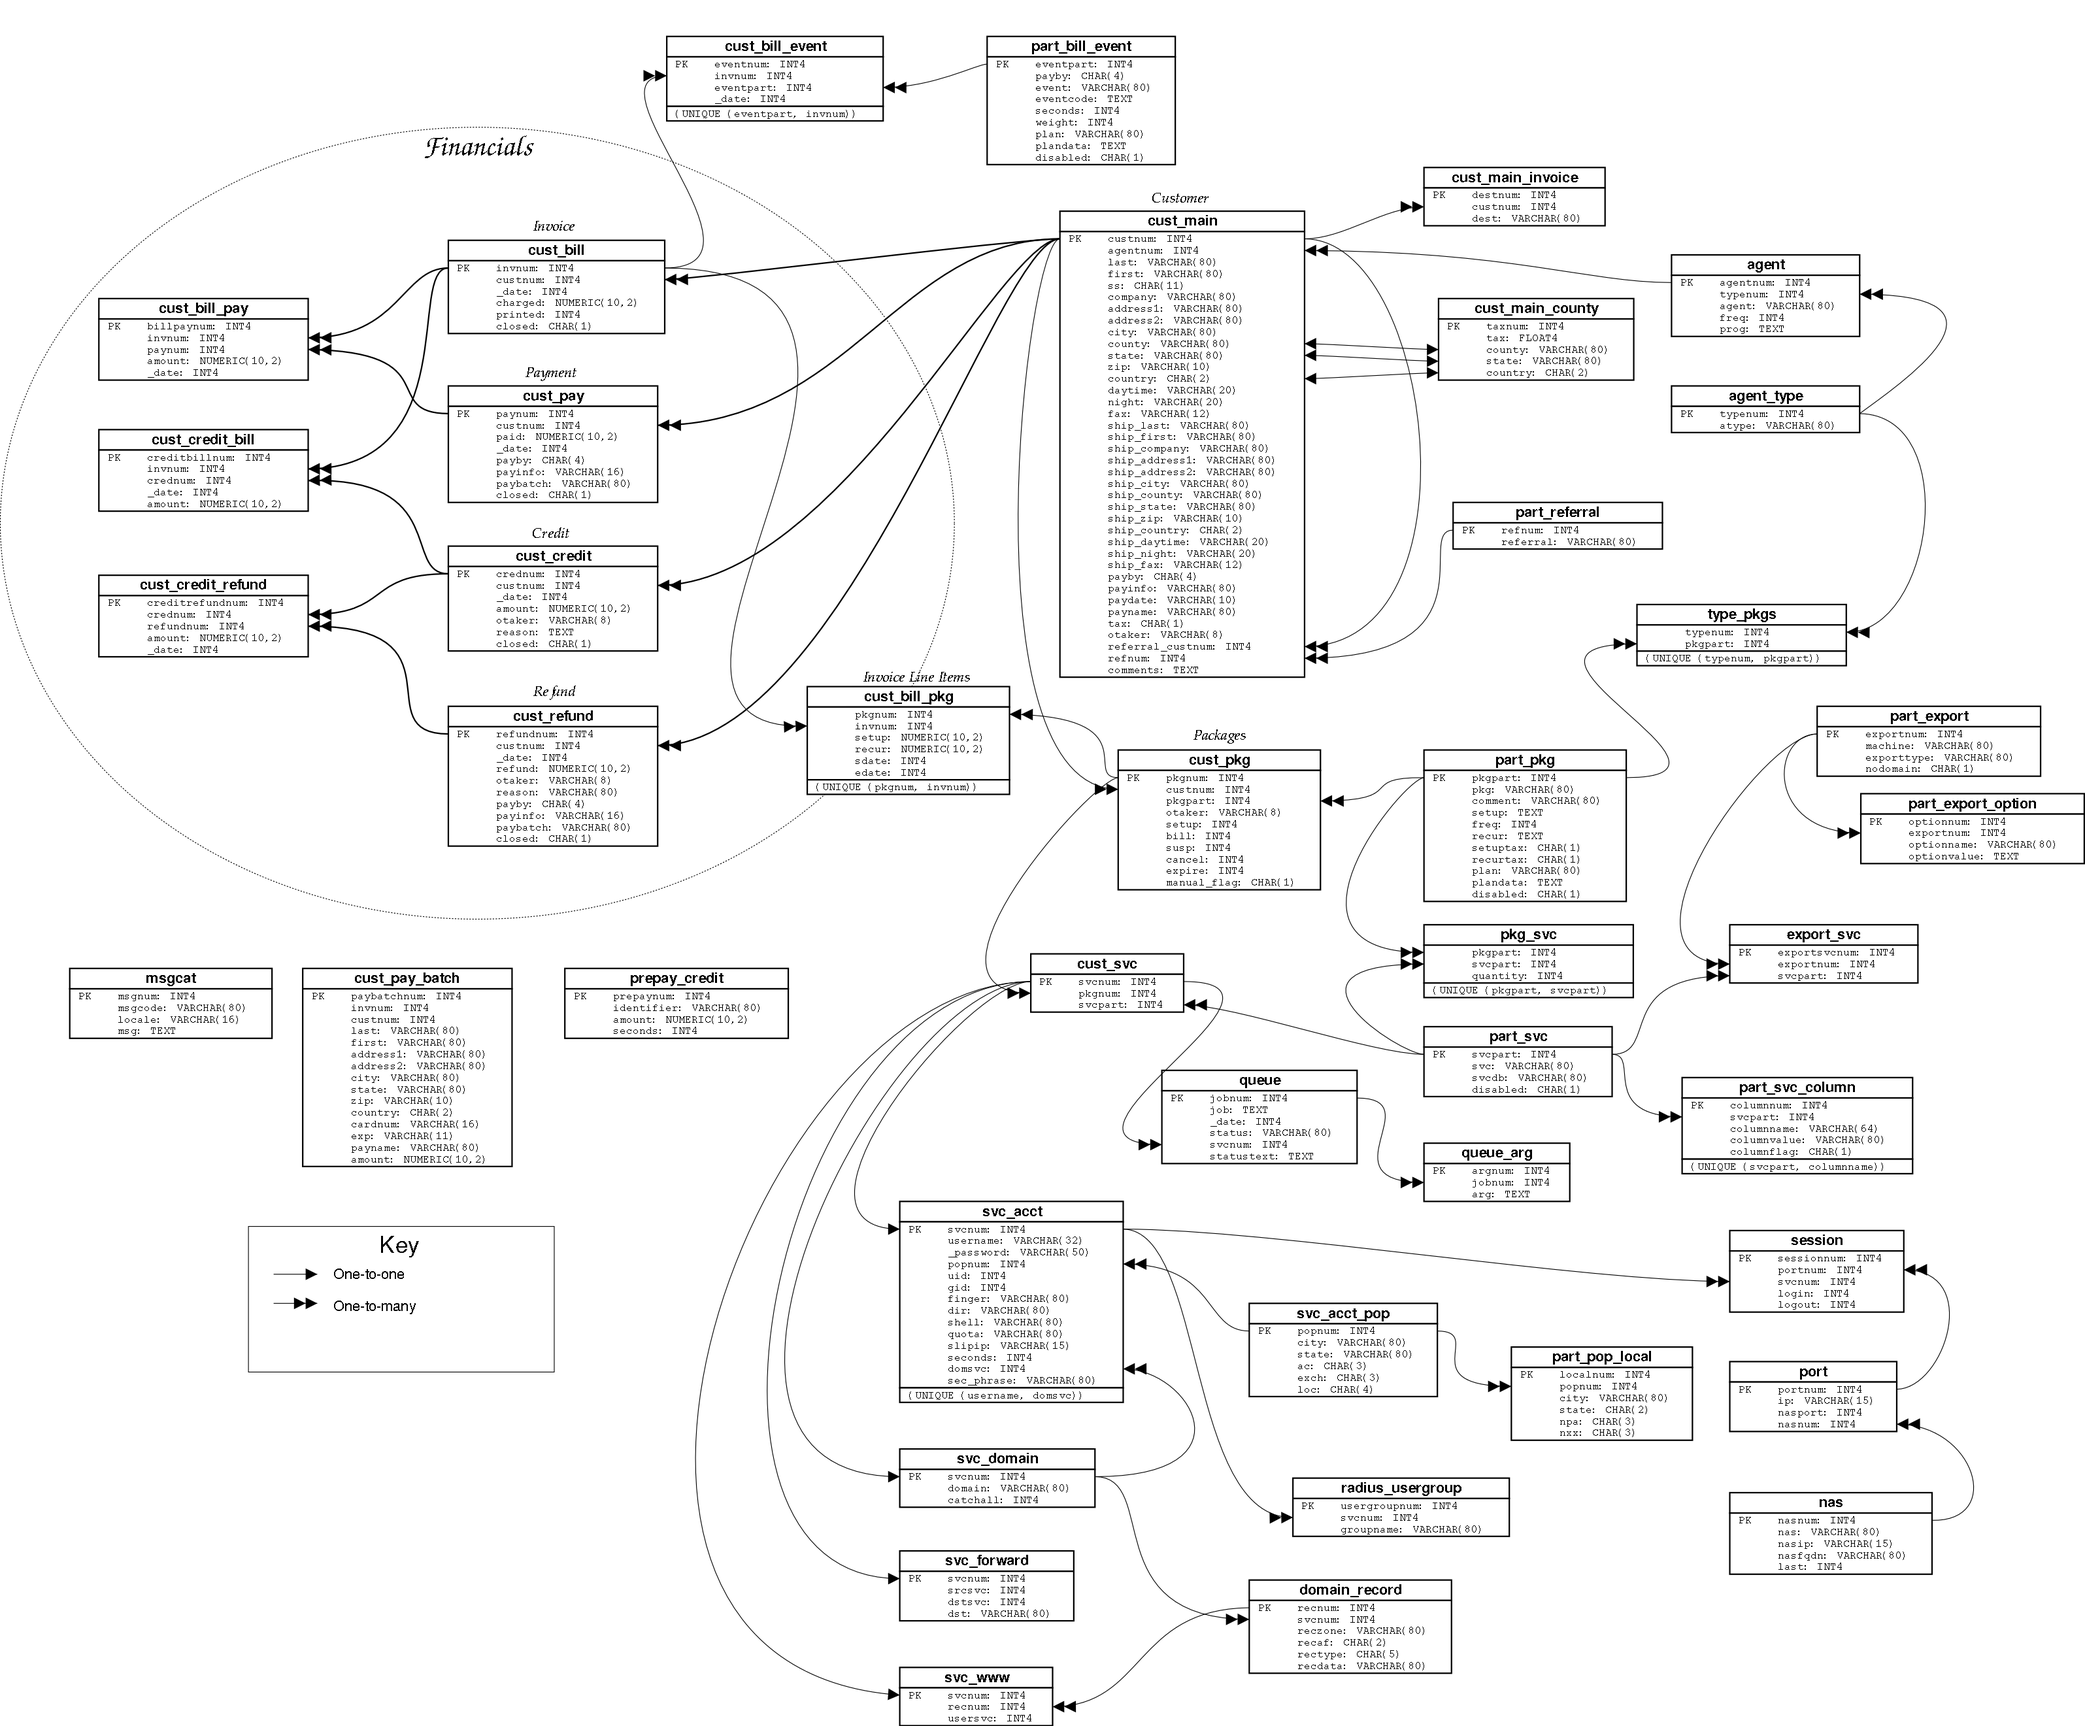
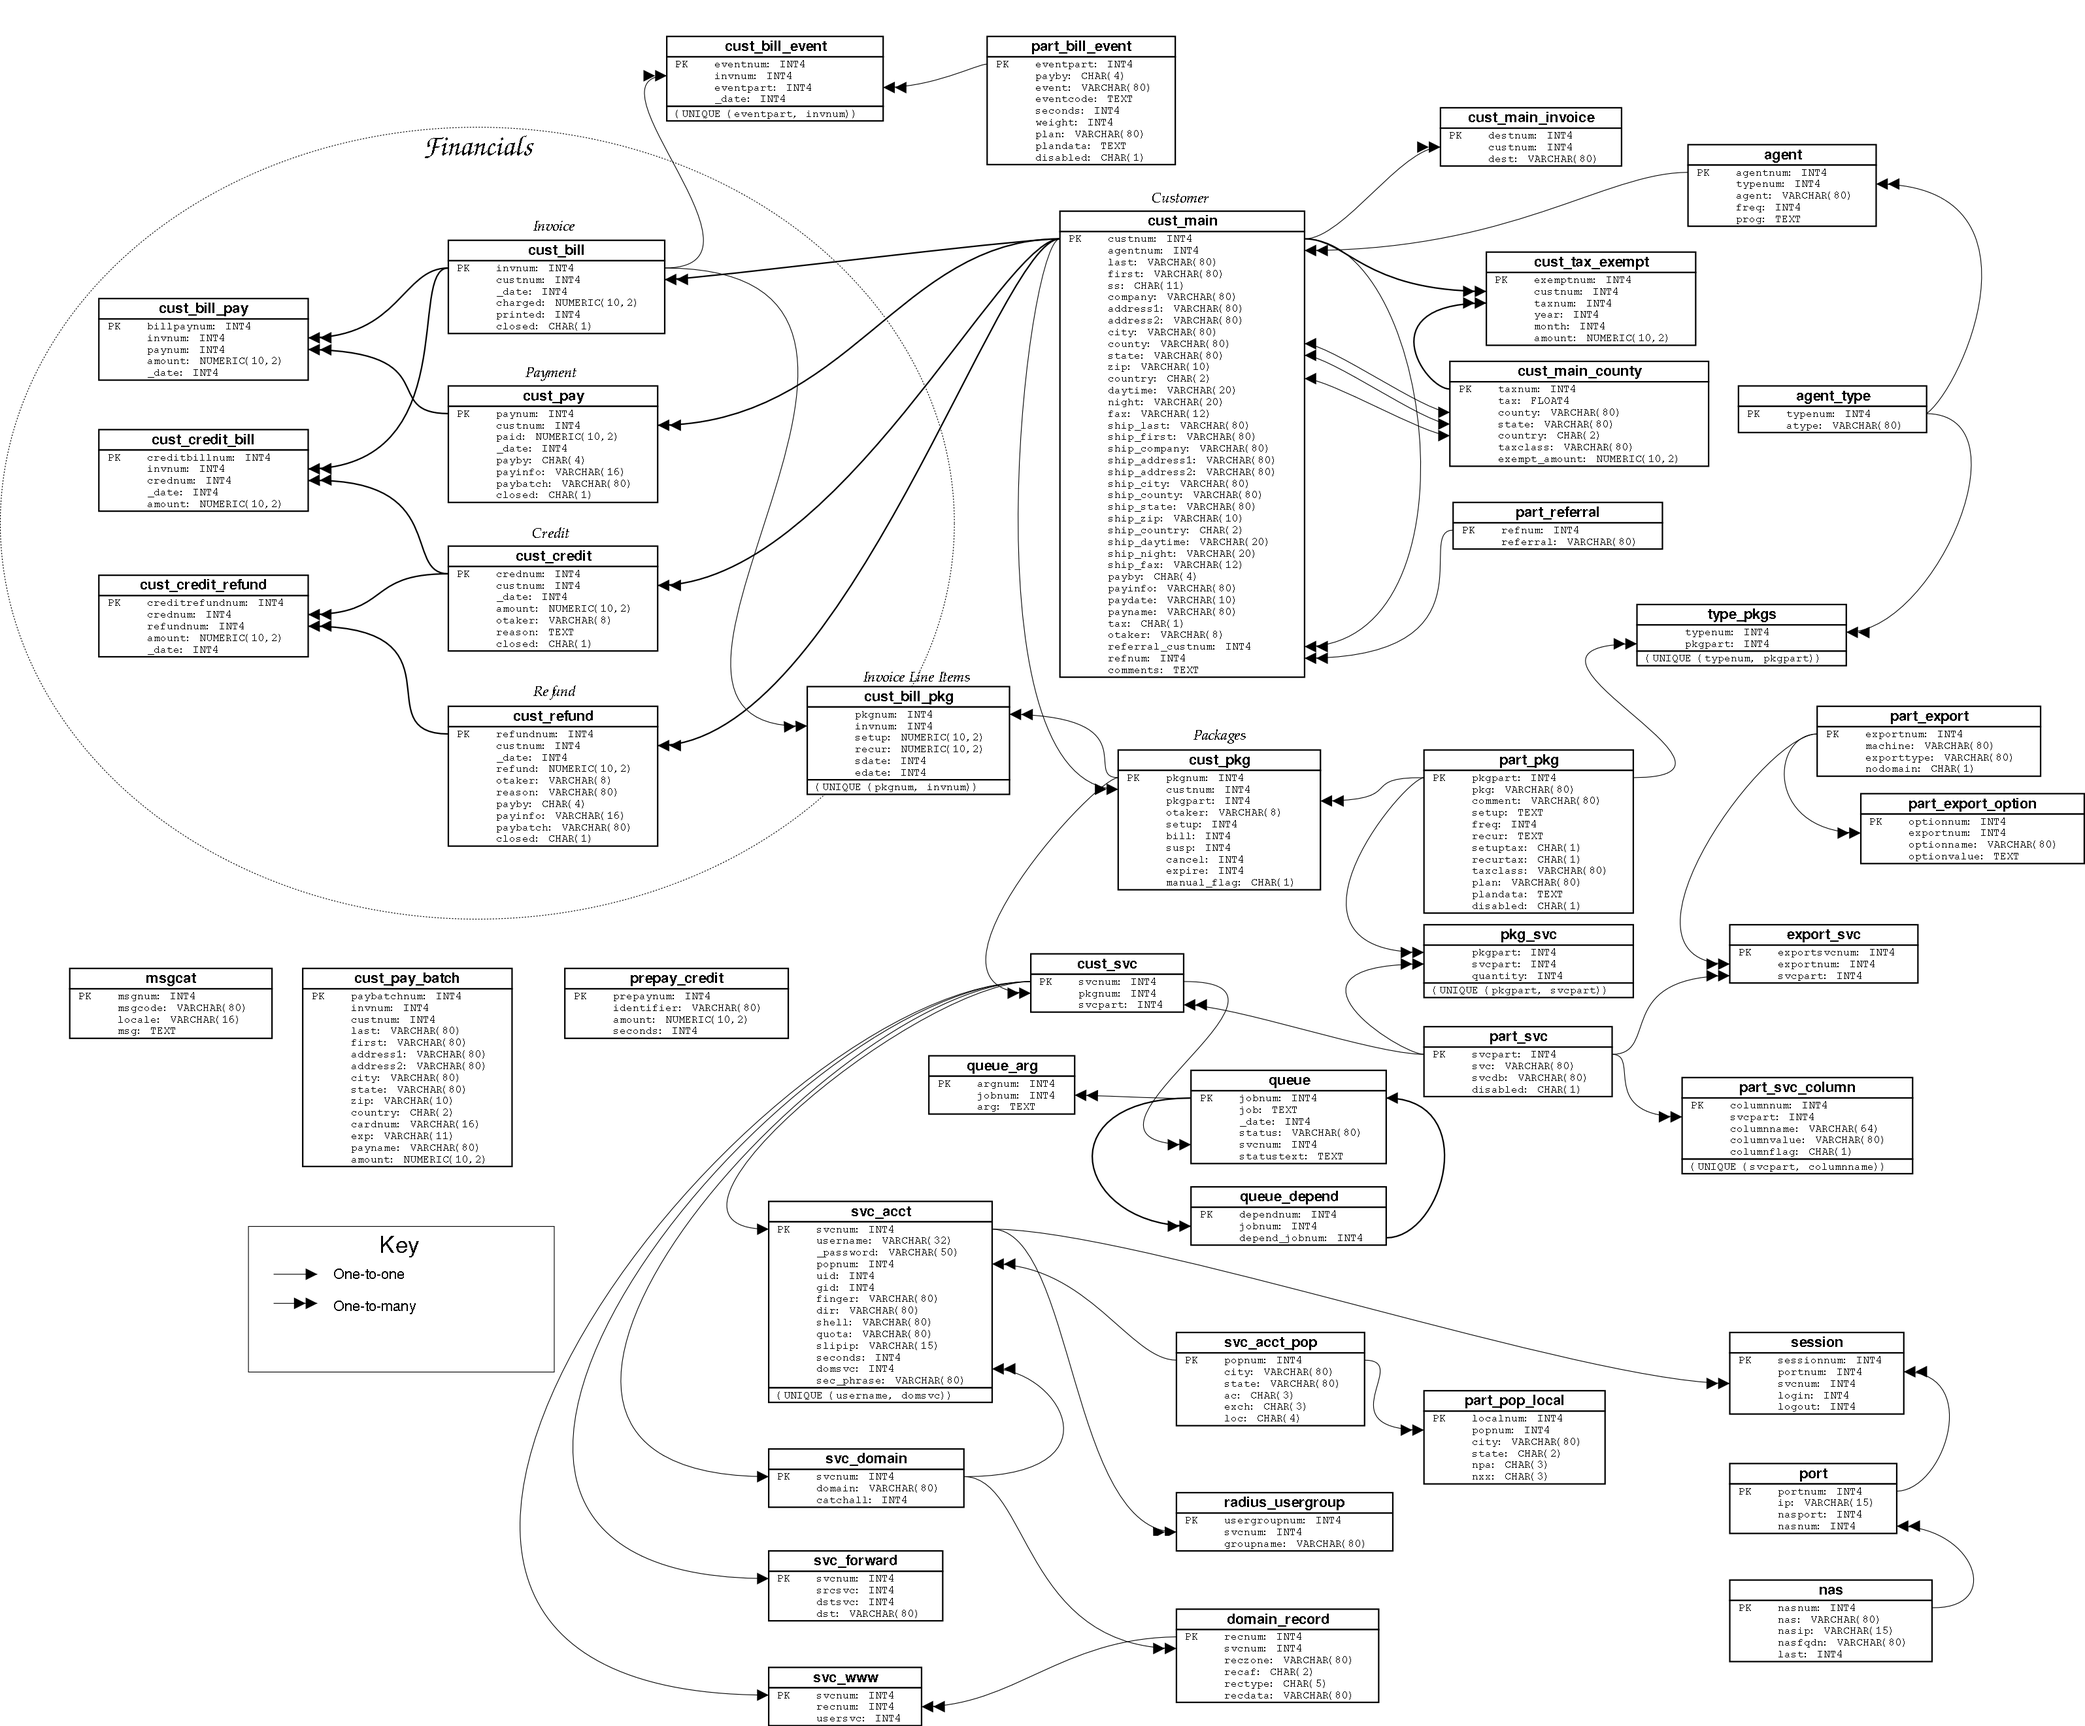
queue dependancies

diff --git a/httemplate/docs/install.html b/httemplate/docs/install.html
@@ -186,7 +186,7 @@ $ bin/fs-setup <b>username</b>
 $ su freeside
 $ bin/populate-msgcat <b>username</b>
 </pre>
-  <li><tt>freeside-queued</tt> was installed with the Perl modules.  Start it now and ensure that is run upon system startup.
+  <li><tt>freeside-queued</tt> was installed with the Perl modules.  Start it now and ensure that is run upon system startup (Do this manually, or, edit the top-level Makefile, replacing INIT_FILE with the appropriate location on your system, and run <tt>make install-init</tt>.
   <li>Now proceed to the initial <a href="admin.html">administration</a> of your installation.
 </ul>
 </body>

diff --git a/httemplate/docs/schema.html b/httemplate/docs/schema.html
@@ -401,6 +401,12 @@
         <li>jobnum - <a href="#queue">job</a>
         <li>arg - argument
       </ul>
+    <li><a name="queue_depend" href="man/FS/queue_depend.html">queue_depend</a> - job dependancies
+      <ul>
+        <li>dependnum - primary key
+        <li>jobnum - source jobnum
+        <li>depend_jobnum - dependancy jobnum
+      </ul>
     <li><a name="radius_usergroup" href="man/FS/radius_usergroup.html">radius_usergroup</a> - Link users to RADIUS groups.
       <ul>
         <li>usergroupnum - primary key

diff --git a/httemplate/docs/upgrade8.html b/httemplate/docs/upgrade8.html
@@ -120,6 +120,14 @@ CREATE TABLE queue_arg (
 );
 CREATE INDEX queue_arg1 ON queue_arg ( jobnum );
 
+CREATE TABLE queue_depend (
+  dependnum int primary key,
+  jobnum int not null,
+  depend_jobnum int not null
+);
+CREATE INDEX queue_depend1 ON queue_depend ( jobnum );
+CREATE INDEX queue_depend2 ON queue_depend ( depend_jobnum );
+
 CREATE TABLE part_pop_local (
   localnum int primary key,
   popnum int not null,
